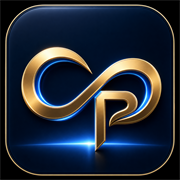
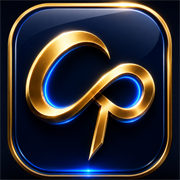
fix: เปลี่ยนไอคอนเป็นโลโก้ CP ที่ถูกต้อง + bump cache v=2
- สร้างไอคอนทุกขนาดใหม่จาก icon.png ตัวจริง (favicon 16/32, apple-touch 180, PWA 192/512, favicon.ico)
- เก็บไฟล์ต้นฉบับ icon.png ไว้ในรีโป
- ขยับ ?v=1 -> ?v=2 บังคับเบราว์เซอร์โหลดไอคอนใหม่

diff --git a/index.html b/index.html
@@ -8,14 +8,14 @@
     <meta property="og:title" content="Chubb Premium">
     <meta property="og:description" content="">
     <meta property="og:type" content="website">
-    <meta property="og:image" content="icons/icon-512.png?v=1">
+    <meta property="og:image" content="icons/icon-512.png?v=2">
 
     <!-- 🔖 ไอคอน / favicon / Add to Home Screen (Chrome + Safari) -->
-    <link rel="icon" href="favicon.ico?v=1" sizes="any">
-    <link rel="icon" type="image/png" sizes="32x32" href="icons/favicon-32.png?v=1">
-    <link rel="icon" type="image/png" sizes="16x16" href="icons/favicon-16.png?v=1">
-    <link rel="apple-touch-icon" sizes="180x180" href="icons/apple-touch-icon.png?v=1">
-    <link rel="manifest" href="site.webmanifest?v=1">
+    <link rel="icon" href="favicon.ico?v=2" sizes="any">
+    <link rel="icon" type="image/png" sizes="32x32" href="icons/favicon-32.png?v=2">
+    <link rel="icon" type="image/png" sizes="16x16" href="icons/favicon-16.png?v=2">
+    <link rel="apple-touch-icon" sizes="180x180" href="icons/apple-touch-icon.png?v=2">
+    <link rel="manifest" href="site.webmanifest?v=2">
     <meta name="theme-color" content="#0a1530">
     <!-- Chrome / Android -->
     <meta name="mobile-web-app-capable" content="yes">
